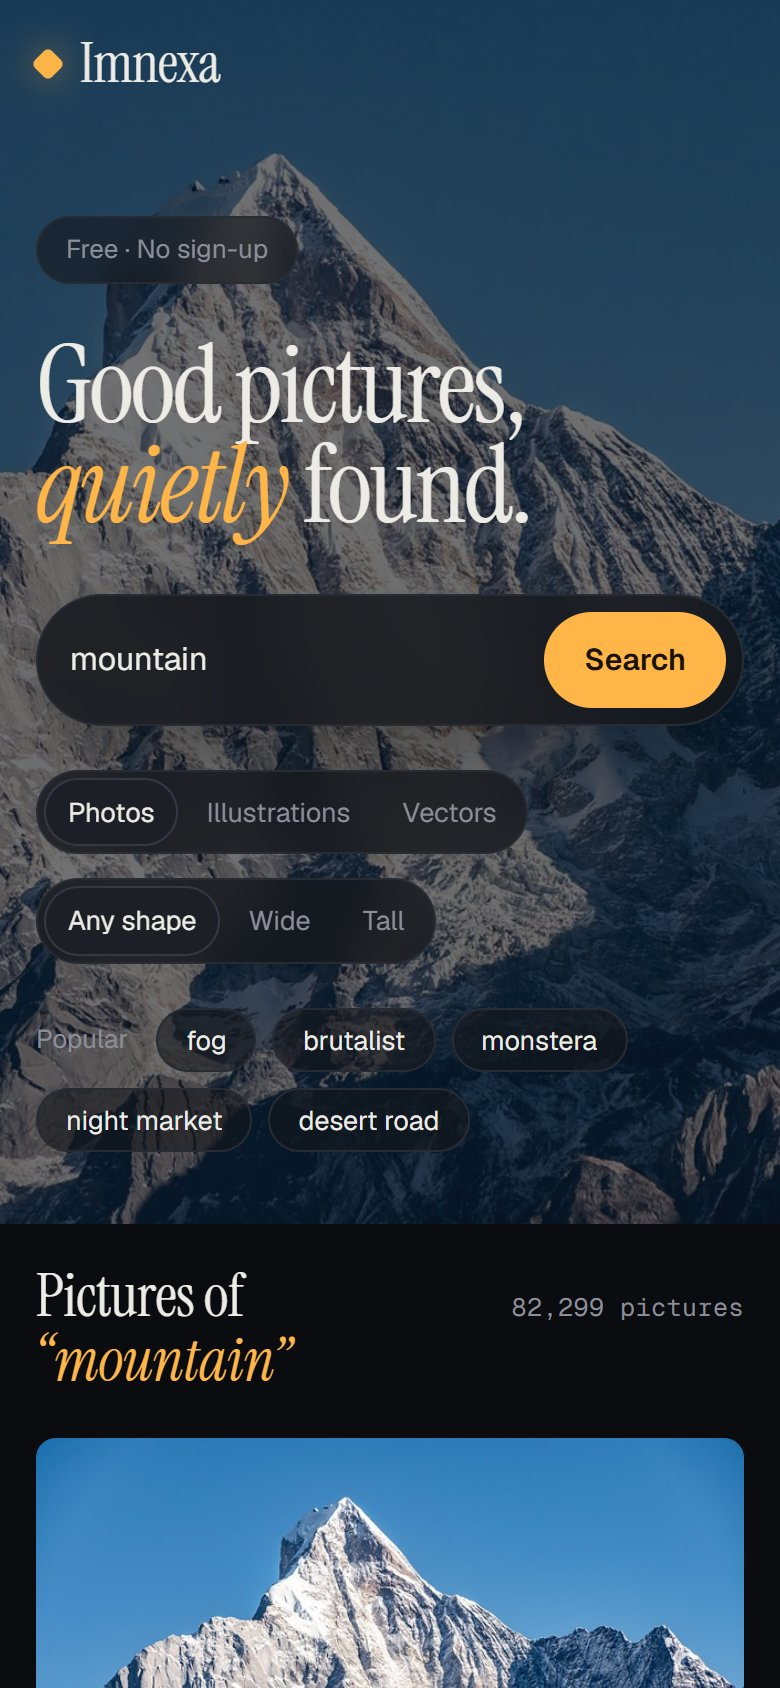
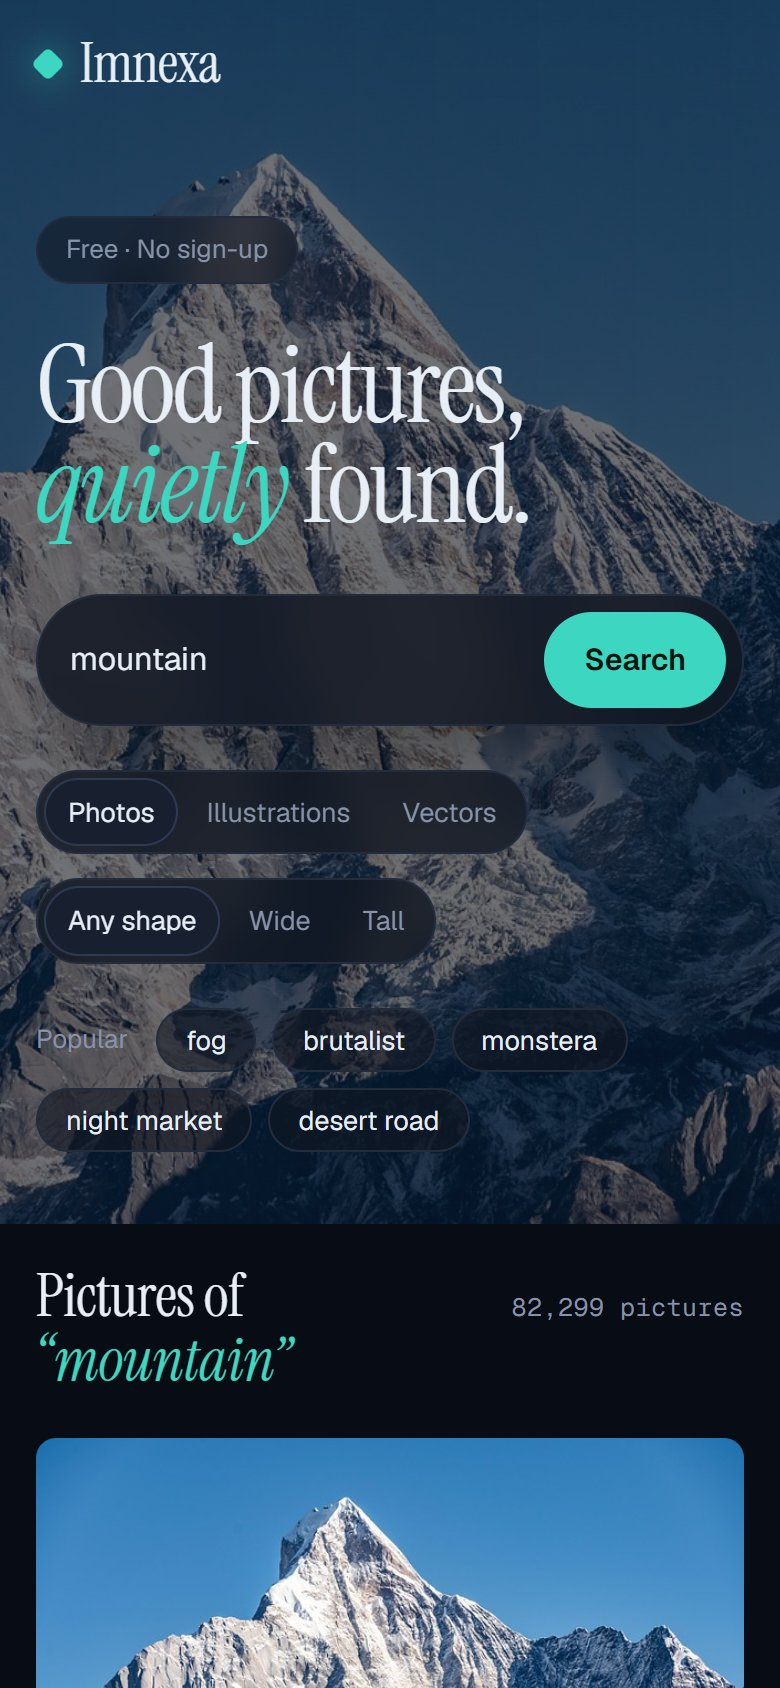
Switch to a midnight navy and teal theme
Replace the charcoal and amber palette with a cool navy base and a teal
accent across the app, landing page, README badges and screenshots.
Colours remain CSS variables; hardcoded shades were mapped to match.

diff --git a/docs/index.html b/docs/index.html
@@ -8,7 +8,7 @@
     <meta name="keywords" content="image search, image downloader, photo downloader, free image search, royalty free images, stock photo downloader, flask app, python, open source, self-hosted, image search engine, vector downloader, illustration downloader, imnexa">
     <meta name="author" content="Karthigamurugadoss">
     <meta name="robots" content="index, follow, max-image-preview:large">
-    <meta name="theme-color" content="#0b0c0f">
+    <meta name="theme-color" content="#080c14">
     <meta name="color-scheme" content="dark">
     <link rel="canonical" href="https://karthigamurugadoss.github.io/imnexa-image-downloader/">
 
@@ -91,14 +91,14 @@
 
     <style>
         :root {
-            --bg: #0b0c0f;
-            --surface: #14161b;
-            --surface-2: #1c1f26;
-            --line: #272b34;
-            --text: #ecebe6;
-            --muted: #8c8f9a;
-            --accent: #ffb547;
-            --accent-ink: #1a1205;
+            --bg: #080c14;
+            --surface: #101622;
+            --surface-2: #182030;
+            --line: #232c3d;
+            --text: #e8eef6;
+            --muted: #8693a8;
+            --accent: #3dd6c0;
+            --accent-ink: #04140f;
             --serif: "Instrument Serif", Georgia, serif;
             --sans: "Geist", system-ui, -apple-system, "Segoe UI", sans-serif;
             --mono: "Geist Mono", ui-monospace, Consolas, monospace;
@@ -118,10 +118,10 @@
         section { padding: clamp(56px, 9vw, 110px) 0; }
 
         /* nav */
-        nav { position: sticky; top: 0; z-index: 30; background: rgba(11, 12, 15, 0.82); backdrop-filter: blur(16px); -webkit-backdrop-filter: blur(16px); border-bottom: 1px solid var(--line); }
+        nav { position: sticky; top: 0; z-index: 30; background: rgba(8, 12, 20, 0.82); backdrop-filter: blur(16px); -webkit-backdrop-filter: blur(16px); border-bottom: 1px solid var(--line); }
         .nav-in { display: flex; align-items: center; justify-content: space-between; height: 64px; gap: 24px; }
         .brand { display: inline-flex; align-items: center; gap: 10px; font-family: var(--serif); font-size: 28px; text-decoration: none; line-height: 1; }
-        .mark { width: 12px; height: 12px; border-radius: 3px; background: var(--accent); transform: rotate(45deg); box-shadow: 0 0 18px rgba(255, 181, 71, .55); }
+        .mark { width: 12px; height: 12px; border-radius: 3px; background: var(--accent); transform: rotate(45deg); box-shadow: 0 0 18px rgba(61, 214, 192, .55); }
         .links { display: flex; align-items: center; gap: 28px; font-size: 14.5px; color: var(--muted); }
         .links a { text-decoration: none; transition: color .15s; }
         .links a:hover { color: var(--text); }
@@ -132,20 +132,20 @@
         .btn { display: inline-flex; align-items: center; gap: 10px; padding: 14px 26px; border-radius: 999px; font-weight: 600; font-size: 15px; text-decoration: none; transition: transform .15s, background .15s, border-color .15s; }
         .btn:active { transform: scale(.97); }
         .btn-primary { background: var(--accent); color: var(--accent-ink); }
-        .btn-primary:hover { background: #ffc470; }
+        .btn-primary:hover { background: #6ee7d4; }
         .btn-ghost { border: 1px solid var(--line); background: var(--surface); }
         .btn-ghost:hover { border-color: var(--accent); }
 
         /* hero */
         .hero { position: relative; padding-top: clamp(56px, 9vw, 120px); padding-bottom: clamp(40px, 6vw, 80px); overflow: hidden; }
-        .hero::before { content: ""; position: absolute; right: -180px; top: -200px; width: 720px; height: 720px; border-radius: 50%; background: radial-gradient(circle, rgba(255, 181, 71, .16), transparent 65%); pointer-events: none; }
+        .hero::before { content: ""; position: absolute; right: -180px; top: -200px; width: 720px; height: 720px; border-radius: 50%; background: radial-gradient(circle, rgba(61, 214, 192, .16), transparent 65%); pointer-events: none; }
         .eyebrow { display: inline-block; padding: 6px 14px; border: 1px solid var(--line); border-radius: 999px; background: var(--surface); color: var(--muted); font-size: 13.5px; }
         h1 { margin-top: 24px; font-family: var(--serif); font-weight: 400; font-size: clamp(52px, 9vw, 112px); line-height: .95; letter-spacing: -.025em; }
         h1 em, h2 em { color: var(--accent); }
         .lead { margin-top: 26px; max-width: 620px; font-size: clamp(17px, 2vw, 20px); color: var(--muted); }
         .cta { display: flex; flex-wrap: wrap; gap: 12px; margin-top: 34px; }
         .clone { display: flex; align-items: center; gap: 14px; max-width: 640px; margin-top: 26px; padding: 12px 12px 12px 20px; background: var(--surface); border: 1px solid var(--line); border-radius: 14px; font-family: var(--mono); font-size: 13.5px; }
-        .clone code { flex: 1; overflow-x: auto; white-space: nowrap; color: #d6d4cd; scrollbar-width: none; }
+        .clone code { flex: 1; overflow-x: auto; white-space: nowrap; color: #cfd8e6; scrollbar-width: none; }
         .clone code::-webkit-scrollbar { display: none; }
         .clone .prompt { color: var(--accent); }
         .copy { padding: 8px 14px; border: 1px solid var(--line); border-radius: 8px; background: var(--surface-2); color: var(--text); font: inherit; font-size: 12.5px; cursor: pointer; transition: border-color .15s; }
@@ -161,8 +161,8 @@
         /* features */
         .grid3 { display: grid; grid-template-columns: repeat(3, 1fr); gap: 16px; margin-top: 48px; }
         .card { padding: 28px; background: var(--surface); border: 1px solid var(--line); border-radius: 16px; transition: border-color .2s, transform .2s; }
-        .card:hover { border-color: #3a3f4b; transform: translateY(-3px); }
-        .ico { width: 44px; height: 44px; display: grid; place-items: center; border-radius: 12px; background: rgba(255, 181, 71, .12); color: var(--accent); }
+        .card:hover { border-color: #34405a; transform: translateY(-3px); }
+        .ico { width: 44px; height: 44px; display: grid; place-items: center; border-radius: 12px; background: rgba(61, 214, 192, .12); color: var(--accent); }
         .card h3 { margin-top: 18px; font-size: 18px; font-weight: 600; }
         .card p { margin-top: 8px; color: var(--muted); font-size: 15px; }
 
@@ -172,7 +172,7 @@
         .step::before { counter-increment: step; content: "0" counter(step); font-family: var(--serif); font-size: 52px; line-height: 1; color: var(--accent); }
         .step h3 { margin-top: 14px; font-size: 18px; font-weight: 600; }
         .step p { margin-top: 8px; color: var(--muted); font-size: 15px; }
-        .step pre { margin-top: 14px; padding: 12px 14px; border-radius: 10px; background: var(--bg); border: 1px solid var(--line); font-family: var(--mono); font-size: 12.5px; color: #d6d4cd; overflow-x: auto; }
+        .step pre { margin-top: 14px; padding: 12px 14px; border-radius: 10px; background: var(--bg); border: 1px solid var(--line); font-family: var(--mono); font-size: 12.5px; color: #cfd8e6; overflow-x: auto; }
 
         /* screenshots */
         .gallery { display: grid; grid-template-columns: 1.3fr 1fr; gap: 16px; margin-top: 48px; align-items: start; }
@@ -188,7 +188,7 @@
 
         /* security list */
         .checks { display: grid; grid-template-columns: repeat(2, 1fr); gap: 14px 40px; margin-top: 40px; list-style: none; }
-        .checks li { display: flex; gap: 14px; color: #c9c8c2; font-size: 15px; }
+        .checks li { display: flex; gap: 14px; color: #c3cddc; font-size: 15px; }
         .checks svg { color: var(--accent); margin-top: 3px; }
 
         /* faq */
@@ -319,7 +319,7 @@
     </section>
 
     <!-- How it works -->
-    <section id="how-it-works" style="background: linear-gradient(180deg, transparent, rgba(20,22,27,.5), transparent)">
+    <section id="how-it-works" style="background: linear-gradient(180deg, transparent, rgba(16, 22, 34,.5), transparent)">
         <div class="wrap">
             <p class="kicker">How it works</p>
             <h2>Running in <em>two minutes</em></h2>

diff --git a/static/style.css b/static/style.css
@@ -1,12 +1,12 @@
 :root {
-    --bg: #0b0c0f;
-    --surface: #14161b;
-    --surface-2: #1c1f26;
-    --line: #272b34;
-    --text: #ecebe6;
-    --muted: #8c8f9a;
-    --accent: #ffb547;
-    --accent-ink: #1a1205;
+    --bg: #080c14;
+    --surface: #101622;
+    --surface-2: #182030;
+    --line: #232c3d;
+    --text: #e8eef6;
+    --muted: #8693a8;
+    --accent: #3dd6c0;
+    --accent-ink: #04140f;
 
     --serif: "Instrument Serif", Georgia, serif;
     --sans: "Geist", system-ui, -apple-system, "Segoe UI", sans-serif;
@@ -118,7 +118,7 @@ kbd {
 
 .topbar.is-scrolled {
     border-bottom-color: var(--line);
-    background: rgba(11, 12, 15, 0.82);
+    background: rgba(8, 12, 20, 0.82);
     backdrop-filter: blur(16px) saturate(1.4);
     -webkit-backdrop-filter: blur(16px) saturate(1.4);
 }
@@ -144,7 +144,7 @@ kbd {
     border-radius: 3px;
     background: var(--accent);
     transform: rotate(45deg);
-    box-shadow: 0 0 18px rgba(255, 181, 71, 0.55);
+    box-shadow: 0 0 18px rgba(61, 214, 192, 0.55);
 }
 
 .topbar-note {
@@ -229,8 +229,8 @@ kbd {
     inset: 0;
     z-index: -1;
     background:
-        linear-gradient(90deg, var(--bg) 0%, rgba(11, 12, 15, 0.55) 55%, rgba(11, 12, 15, 0.25) 100%),
-        linear-gradient(180deg, rgba(11, 12, 15, 0.1) 40%, var(--bg) 100%);
+        linear-gradient(90deg, var(--bg) 0%, rgba(8, 12, 20, 0.55) 55%, rgba(8, 12, 20, 0.25) 100%),
+        linear-gradient(180deg, rgba(8, 12, 20, 0.1) 40%, var(--bg) 100%);
 }
 
 .hero-inner {
@@ -242,7 +242,7 @@ kbd {
     padding: 6px 14px;
     border: 1px solid var(--line);
     border-radius: 999px;
-    background: rgba(20, 22, 27, 0.6);
+    background: rgba(16, 22, 34, 0.6);
     backdrop-filter: blur(8px);
     color: var(--muted);
     font-size: 13px;
@@ -270,7 +270,7 @@ kbd {
     max-width: 780px;
     margin-top: clamp(28px, 4vw, 48px);
     padding: 8px 8px 8px 22px;
-    background: rgba(20, 22, 27, 0.82);
+    background: rgba(16, 22, 34, 0.82);
     backdrop-filter: blur(14px);
     border: 1px solid var(--line);
     border-radius: 999px;
@@ -280,7 +280,7 @@ kbd {
 
 .search:focus-within {
     border-color: var(--accent);
-    box-shadow: 0 0 0 4px rgba(255, 181, 71, 0.14), 0 20px 50px -20px rgba(0, 0, 0, 0.7);
+    box-shadow: 0 0 0 4px rgba(61, 214, 192, 0.14), 0 20px 50px -20px rgba(0, 0, 0, 0.7);
 }
 
 .search-icon {
@@ -302,7 +302,7 @@ kbd {
 }
 
 .search input::placeholder {
-    color: #6c6f7a;
+    color: #5d6a82;
 }
 
 .slash {
@@ -322,7 +322,7 @@ kbd {
 }
 
 .search-go:hover {
-    background: #ffc470;
+    background: #6ee7d4;
 }
 
 .search-go:active {
@@ -340,7 +340,7 @@ kbd {
     display: inline-flex;
     padding: 3px;
     gap: 2px;
-    background: rgba(20, 22, 27, 0.8);
+    background: rgba(16, 22, 34, 0.8);
     backdrop-filter: blur(10px);
     border: 1px solid var(--line);
     border-radius: 999px;
@@ -361,7 +361,7 @@ kbd {
 .seg.is-active {
     background: var(--surface-2);
     color: var(--text);
-    box-shadow: inset 0 0 0 1px #343945;
+    box-shadow: inset 0 0 0 1px #2f3a52;
 }
 
 .try {
@@ -382,7 +382,7 @@ kbd {
     padding: 5px 14px;
     border: 1px solid var(--line);
     border-radius: 999px;
-    background: rgba(20, 22, 27, 0.6);
+    background: rgba(16, 22, 34, 0.6);
     font-size: 13.5px;
     transition: border-color 0.15s, color 0.15s, background 0.15s;
 }
@@ -484,7 +484,7 @@ kbd {
     justify-content: space-between;
     gap: 12px;
     padding: 56px 14px 14px;
-    background: linear-gradient(180deg, transparent, rgba(5, 6, 8, 0.82));
+    background: linear-gradient(180deg, transparent, rgba(3, 5, 10, 0.82));
     opacity: 0;
     transform: translateY(8px);
     transition: opacity 0.2s, transform 0.2s;
@@ -513,7 +513,7 @@ kbd {
 
 .plate-tags {
     font-size: 12.5px;
-    color: rgba(236, 235, 230, 0.7);
+    color: rgba(232, 238, 246, 0.7);
     white-space: nowrap;
     overflow: hidden;
     text-overflow: ellipsis;
@@ -534,7 +534,7 @@ kbd {
 
 .plate-dl:hover {
     transform: scale(1.1);
-    background: #ffc470;
+    background: #6ee7d4;
 }
 
 /* touch devices have no hover, so keep the overlay visible */
@@ -648,7 +648,7 @@ kbd {
 }
 
 .viewer::backdrop {
-    background: rgba(4, 5, 7, 0.82);
+    background: rgba(3, 5, 10, 0.82);
     backdrop-filter: blur(6px);
 }
 
@@ -662,7 +662,7 @@ kbd {
     display: grid;
     place-items: center;
     border-radius: 50%;
-    background: rgba(28, 31, 38, 0.9);
+    background: rgba(24, 32, 48, 0.9);
     border: 1px solid var(--line);
     transition: background 0.15s, color 0.15s;
 }
@@ -678,7 +678,7 @@ kbd {
     place-items: center;
     min-height: 320px;
     max-height: 92vh;
-    background: #050608;
+    background: #03050a;
 }
 
 .viewer-stage img {
@@ -697,7 +697,7 @@ kbd {
     display: grid;
     place-items: center;
     border-radius: 50%;
-    background: rgba(28, 31, 38, 0.85);
+    background: rgba(24, 32, 48, 0.85);
     border: 1px solid var(--line);
     transition: background 0.15s, color 0.15s;
 }
@@ -782,7 +782,7 @@ kbd {
 }
 
 .download-main:hover {
-    background: #ffc470;
+    background: #6ee7d4;
 }
 
 .download-main:active {

diff --git a/templates/index.html b/templates/index.html
@@ -5,7 +5,7 @@
     <meta charset="UTF-8">
     <meta name="viewport" content="width=device-width, initial-scale=1.0">
     <meta name="color-scheme" content="dark">
-    <meta name="theme-color" content="#0b0c0f">
+    <meta name="theme-color" content="#080c14">
 
     <title>Imnexa – Image Search &amp; Downloader</title>
     <meta name="description" content="Imnexa is a free image search and downloader. Search photos, illustrations and vectors, preview them and download full resolution.">

diff --git a/README.md b/README.md
@@ -15,9 +15,9 @@
   <a href="https://flask.palletsprojects.com"><img src="https://img.shields.io/badge/Flask-Web_Framework-000000?logo=flask&logoColor=white" alt="Flask"></a>
   <a href="https://pixabay.com/api/docs/"><img src="https://img.shields.io/badge/Pixabay-API-48a14d?logo=pixabay&logoColor=white" alt="Pixabay API"></a>
   <a href="LICENSE"><img src="https://img.shields.io/badge/License-MIT-green.svg" alt="License"></a>
-  <a href="https://github.com/Karthigamurugadoss/imnexa-image-downloader/releases/latest"><img src="https://img.shields.io/github/v/release/Karthigamurugadoss/imnexa-image-downloader?color=ffb547" alt="Latest release"></a>
+  <a href="https://github.com/Karthigamurugadoss/imnexa-image-downloader/releases/latest"><img src="https://img.shields.io/github/v/release/Karthigamurugadoss/imnexa-image-downloader?color=3dd6c0" alt="Latest release"></a>
   <a href="https://github.com/Karthigamurugadoss/imnexa-image-downloader/stargazers"><img src="https://img.shields.io/github/stars/Karthigamurugadoss/imnexa-image-downloader?style=social" alt="Stars"></a>
-  <a href="https://karthigamurugadoss.github.io/imnexa-image-downloader/"><img src="https://img.shields.io/badge/Website-Live-ffb547?logo=googlechrome&logoColor=white" alt="Website"></a>
+  <a href="https://karthigamurugadoss.github.io/imnexa-image-downloader/"><img src="https://img.shields.io/badge/Website-Live-3dd6c0?logo=googlechrome&logoColor=white" alt="Website"></a>
 </p>
 
 <p align="center">
@@ -265,7 +265,7 @@ Built by **[Karthigamurugadoss](https://github.com/Karthigamurugadoss)**
 
 <p align="center">
   <br>
-  <a href="https://github.com/Karthigamurugadoss/imnexa-image-downloader/stargazers"><img src="https://img.shields.io/github/stars/Karthigamurugadoss/imnexa-image-downloader?style=for-the-badge&logo=github&label=Star%20this%20repo&color=ffb547" alt="Star"></a>
+  <a href="https://github.com/Karthigamurugadoss/imnexa-image-downloader/stargazers"><img src="https://img.shields.io/github/stars/Karthigamurugadoss/imnexa-image-downloader?style=for-the-badge&logo=github&label=Star%20this%20repo&color=3dd6c0" alt="Star"></a>
   <br><br>
   <sub>If Imnexa saved you time, a star helps others find it too.</sub>
 </p>
